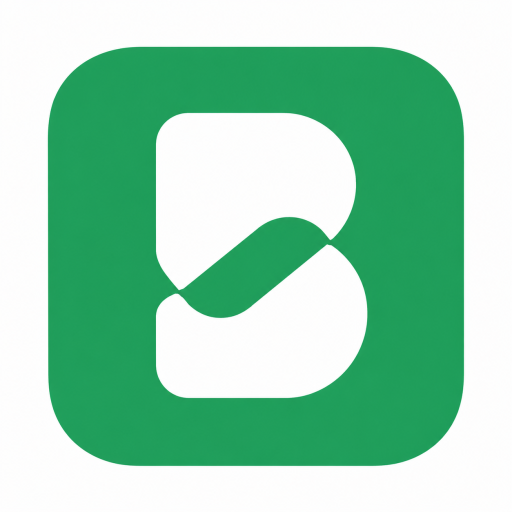
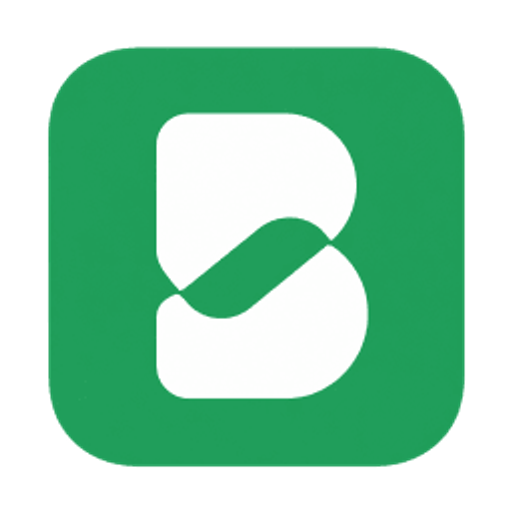
feat: l'app installée ouvre sur l'interface, et son icône n'a plus de fond blanc
Deux corrections signalées après installation de l'app sur PC.

L'app s'ouvrait sur la page de vente. Quelqu'un qui l'a installée l'a déjà
lue : lui imposer deux clics avant d'arriver à son agenda n'a aucun sens. Le
`start_url` du manifeste pointe désormais vers /app, une route qui redirige
selon la session — agenda pour un pro, espace client pour un client, page de
connexion pour un visiteur. Redirection côté SERVEUR, parce que lui seul
connaît la session : la faire en JavaScript ferait clignoter l'accueil avant
de partir ailleurs.

« Pro » se vérifie par la possession d'un établissement OU une adhésion
acceptée. Sans ça, un compte client atterrissait sur /appointment, que
injectCompany renvoie aussitôt vers l'accueil — la boucle qu'on veut éviter.
Toute erreur retombe sur /login : jamais un écran d'erreur au lancement.

`id` reste « / » : le changer aurait fait apparaître l'app comme une NOUVELLE
installation, en laissant l'ancienne en place.

Un filet en JavaScript couvre les installations déjà faites, dont le
`start_url` mémorisé reste « / » jusqu'à ce que le navigateur relise le
manifeste. Il ne se déclenche qu'au lancement : un référent de notre domaine
signifie que l'utilisateur a cliqué vers l'accueil depuis l'app, et lui
refuser cette navigation serait pire que le problème d'origine.

Côté icône, `icon-192.png` et `icon.png` avaient un fond BLANC opaque — d'où
le carré blanc dans la barre des tâches. Le défaut était déjà décrit dans
[…]

diff --git a/routes/index.js b/routes/index.js
@@ -564,6 +564,41 @@ router.get("/search", requireFeatureActive("search"), async (req, res) => {
   }
 });
 
+/* ── Point d'entrée de l'application installée ────────────────────────────
+   `start_url` du manifeste. Quelqu'un qui a installé l'app a déjà vu la page
+   de vente — la lui remontrer à chaque ouverture lui impose deux clics avant
+   d'arriver à son agenda. On l'envoie donc directement là où il va.
+
+   Redirection côté serveur : lui seul sait si la session est celle d'un pro,
+   d'un client, ou de personne. Une redirection en JavaScript ferait clignoter
+   la page d'accueil avant de partir ailleurs. */
+router.get("/app", async (req, res) => {
+  try {
+    // Ancien compte Client séparé (cf. migrate-merge-client-into-user).
+    if (req.session && req.session.clientId) return res.redirect("/espace-client");
+
+    if (req.isAuthenticated && req.isAuthenticated() && req.user) {
+      const CompanyMembership = require("../db/models/company/companyMembership.model");
+      // « Pro » = possède un établissement, ou est collaborateur accepté d'un
+      // autre. Sans cette vérification, un compte client atterrissait sur
+      // /appointment, que injectCompany renvoie aussitôt vers l'accueil : la
+      // boucle exacte qu'on cherche à éviter.
+      const [proprietaire, membre] = await Promise.all([
+        Companies.exists({ owner: req.user._id, isDeleted: { $ne: true } }),
+        CompanyMembership.exists({ user: req.user._id, status: "accepted" }),
+      ]);
+      return res.redirect(proprietaire || membre ? "/appointment" : "/espace-client");
+    }
+
+    return res.redirect("/login");
+  } catch (err) {
+    console.error("[/app] redirection impossible:", err.message);
+    // En cas de pépin, la connexion reste un point de départ valable pour
+    // tout le monde — jamais un écran d'erreur au lancement de l'app.
+    return res.redirect("/login");
+  }
+});
+
 router.get("/contact", (req, res) => {
   res.render("client/contact", { title: "Contact — BranShee", alwaysSticky: true });
 });

diff --git a/app.js b/app.js
@@ -376,6 +376,11 @@ app.use(require("./middlewares/mongoSanitize"));
 // (tout ce qui suit) reste inchangée.
 app.use("/api/v1", require("./routes/mobile"));
 
+// ── Export CRM (lecture seule) ────────────────────────────────────────────
+// Même raison que ci-dessus : sans état, authentifiée par un secret partagé,
+// elle n'a rien à faire dans la session web.
+app.use(require("./routes/crm"));
+
 app.use(require("./config/session"));
 
 app.use(passport.initialize());
